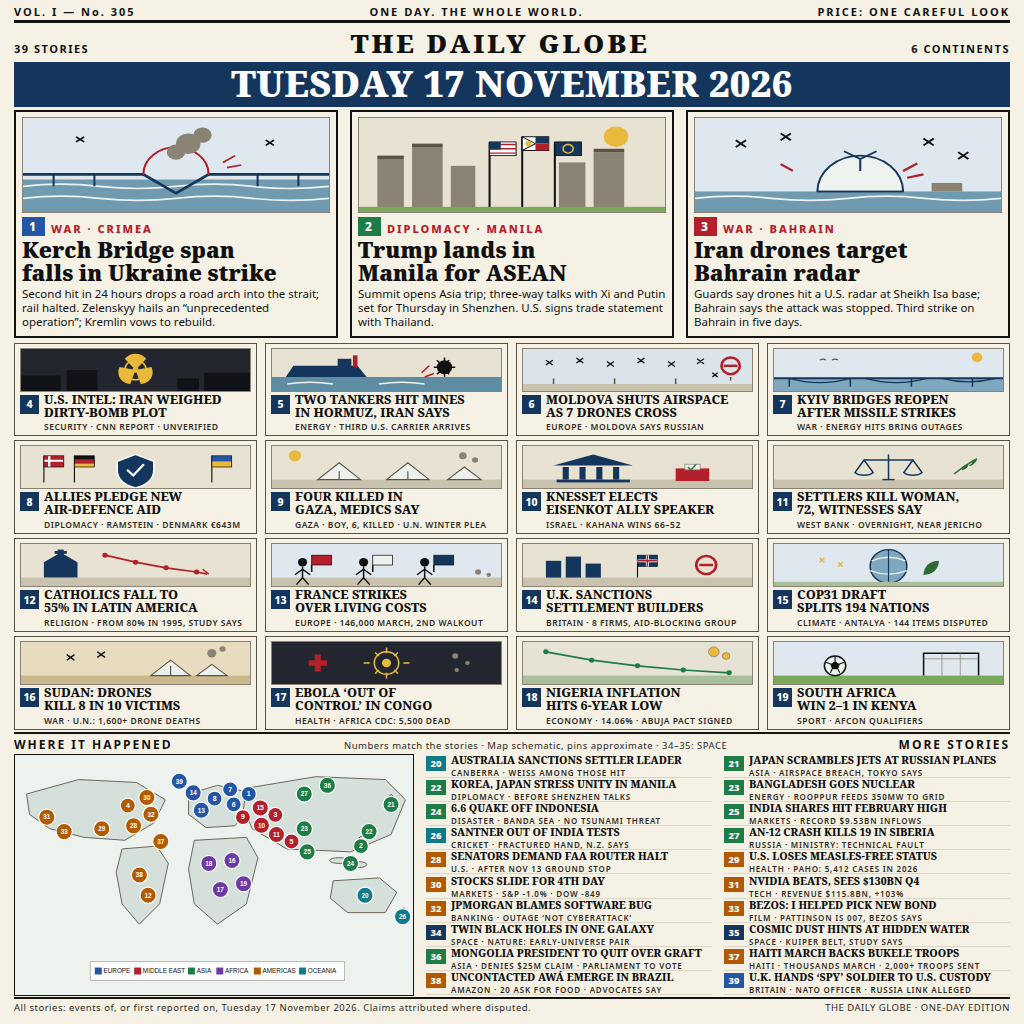
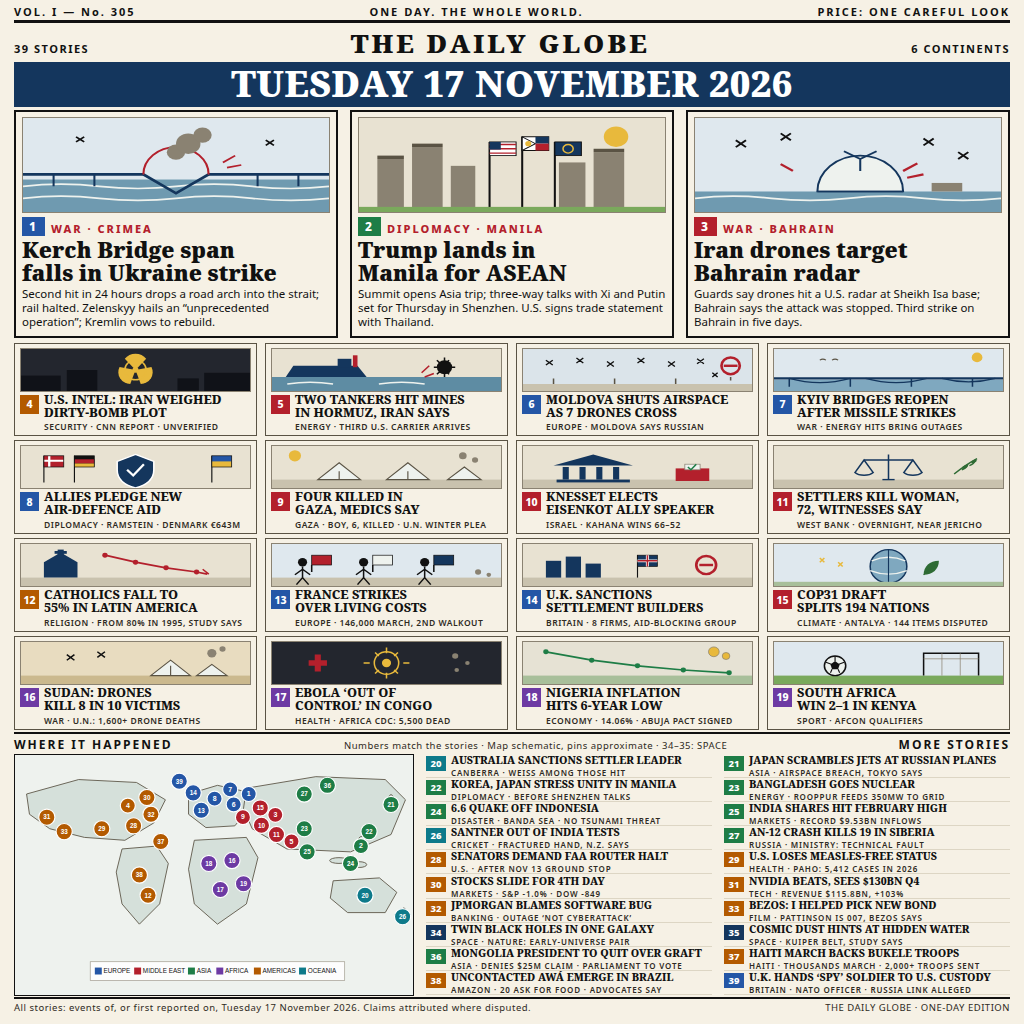
v6.1: color card chips 4-19 by story region, matching map pins

diff --git a/render.html b/render.html
@@ -35,6 +35,8 @@
   .row{display:flex;gap:5px;align-items:flex-start}
   .n2{flex:0 0 19px;height:19px;background:#14365d;color:#fff;font-size:10.5px;font-weight:800;
     display:flex;align-items:center;justify-content:center;margin-top:1px}
+  .n2.eu{background:#2456a6}.n2.me{background:#b3202c}.n2.as{background:#1e7d46}
+  .n2.af{background:#6d3aa3}.n2.am{background:#b35a00}.n2.oc{background:#0e7a8a}
   .h{font-family:"Noto Serif","DejaVu Serif",Georgia,serif;font-size:12.5px;font-weight:800;
     line-height:1.03;text-wrap:balance}
   .l{font-size:8.5px;font-weight:600;letter-spacing:.5px;color:#2e2a23;margin-top:2px}
@@ -71,22 +73,22 @@
   </div>
 
   <div class="cards">
-    <div class="card"><svg class="cardart" viewBox="0 0 300 60" preserveAspectRatio="none"><rect width="300" height="60" fill="#23262e"/><g fill="#101218"><rect y="38" width="52" height="22"/><rect x="60" y="30" width="40" height="30"/><rect x="240" y="34" width="60" height="26"/><rect x="205" y="42" width="28" height="18"/></g><g fill="#e8b93c"><circle cx="150" cy="30" r="4"/><path d="M150 30L136 14a17 17 0 0 1 28 0z"/><path d="M150 30L136 14a17 17 0 0 1 28 0z" transform="rotate(120 150 30)"/><path d="M150 30L136 14a17 17 0 0 1 28 0z" transform="rotate(240 150 30)"/></g><circle cx="150" cy="30" r="14" fill="none" stroke="#e8b93c" stroke-width="2"/></svg><div class="row"><span class="n2">4</span><div><div class="h">U.S. INTEL: IRAN WEIGHED DIRTY-BOMB PLOT</div><div class="l">SECURITY &middot; CNN REPORT &middot; UNVERIFIED</div></div></div></div>
-    <div class="card"><svg class="cardart" viewBox="0 0 300 60" preserveAspectRatio="none"><rect width="300" height="60" fill="#e8e2d2"/><rect y="40" width="300" height="20" fill="#5e8ca3"/><path d="M18 40l10-16h84l12 16z" fill="#14365d"/><rect x="86" y="14" width="18" height="12" fill="#14365d"/><rect x="106" y="9" width="6" height="17" fill="#b3202c"/><circle cx="226" cy="26" r="10" fill="#111"/><g stroke="#111" stroke-width="2"><path d="M226 12v6M226 34v6M212 26h6M234 26h6M216 16l4 4M232 16l-4 4M216 36l4-4M232 36l-4-4"/></g><path d="M196 34l10-10M200 40l12-5" stroke="#b3202c" stroke-width="2"/><path d="M20 50q30-5 60 0M140 50q30-5 60 0" stroke="#eef2ee" stroke-width="2" fill="none"/></svg><div class="row"><span class="n2">5</span><div><div class="h">TWO TANKERS HIT MINES IN HORMUZ, IRAN SAYS</div><div class="l">ENERGY &middot; THIRD U.S. CARRIER ARRIVES</div></div></div></div>
-    <div class="card"><svg class="cardart" viewBox="0 0 300 60" preserveAspectRatio="none"><rect width="300" height="60" fill="#dbe4ea"/><rect y="50" width="300" height="10" fill="#c9c2ae"/><g stroke="#111" stroke-width="1.8"><path d="M30 16l9 7M39 16l-9 7M70 13l9 7M79 13l-9 7M110 18l9 7M119 18l-9 7M150 13l9 7M159 13l-9 7M190 18l9 7M199 18l-9 7M228 14l9 7M237 14l-9 7M248 34l7 6M255 34l-7 6"/></g><circle cx="272" cy="24" r="12" fill="none" stroke="#b3202c" stroke-width="3.5"/><path d="M263 24h18" stroke="#b3202c" stroke-width="3.5"/><path d="M272 40v5" stroke="#5a5344" stroke-width="2"/><path d="M40 50v-8M120 50v-8M200 50v-8" stroke="#5a5344" stroke-width="2"/></svg><div class="row"><span class="n2">6</span><div><div class="h">MOLDOVA SHUTS AIRSPACE AS 7 DRONES CROSS</div><div class="l">EUROPE &middot; MOLDOVA SAYS RUSSIAN</div></div></div></div>
-    <div class="card"><svg class="cardart" viewBox="0 0 300 60" preserveAspectRatio="none"><rect width="300" height="60" fill="#dfe8ee"/><circle cx="266" cy="12" r="7" fill="#e8b93c"/><rect y="44" width="300" height="16" fill="#7fa8bf"/><path d="M0 42h300" stroke="#14365d" stroke-width="3"/><path d="M20 42q40 12 80 0M120 42q40 12 80 0M220 42q35 10 70 0" fill="none" stroke="#14365d" stroke-width="2"/><path d="M20 42v12M100 42v12M180 42v12M260 42v12" stroke="#14365d" stroke-width="2"/><path d="M60 16q4-3 8 0M76 16q4-3 8 0" stroke="#5a5344" stroke-width="1.5" fill="none"/></svg><div class="row"><span class="n2">7</span><div><div class="h">KYIV BRIDGES REOPEN AFTER MISSILE STRIKES</div><div class="l">WAR &middot; ENERGY HITS BRING OUTAGES</div></div></div></div>
-    <div class="card"><svg class="cardart" viewBox="0 0 300 60" preserveAspectRatio="none"><rect width="300" height="60" fill="#e8e2d2"/><g stroke="#111" stroke-width="1.5"><path d="M30 52V14M70 52V14M250 52V14"/></g><g><rect x="30" y="14" width="26" height="16" fill="#b3202c"/><path d="M30 21h26M37 14v16" stroke="#fff" stroke-width="3"/><rect x="30" y="14" width="26" height="16" fill="none" stroke="#111"/></g><g><rect x="70" y="14" width="26" height="16" fill="#111"/><rect x="70" y="19" width="26" height="6" fill="#b3202c"/><rect x="70" y="25" width="26" height="5" fill="#e8b93c"/><rect x="70" y="14" width="26" height="16" fill="none" stroke="#111"/></g><g><rect x="250" y="14" width="26" height="16" fill="#2456a6"/><rect x="250" y="22" width="26" height="8" fill="#e8b93c"/><rect x="250" y="14" width="26" height="16" fill="none" stroke="#111"/></g><path d="M150 12l24 10v12c0 14-10 22-24 26-14-4-24-12-24-26V22z" fill="#14365d" stroke="#fff" stroke-width="2"/><path d="M139 34l8 8 14-16" stroke="#fff" stroke-width="3" fill="none"/></svg><div class="row"><span class="n2">8</span><div><div class="h">ALLIES PLEDGE NEW AIR-DEFENCE AID</div><div class="l">DIPLOMACY &middot; RAMSTEIN &middot; DENMARK &euro;643M</div></div></div></div>
-    <div class="card"><svg class="cardart" viewBox="0 0 300 60" preserveAspectRatio="none"><rect width="300" height="60" fill="#e8e2d2"/><circle cx="30" cy="14" r="8" fill="#e8b93c"/><rect y="48" width="300" height="12" fill="#c9c2ae"/><g fill="#eef2ee" stroke="#5a5344" stroke-width="1.5"><path d="M60 48l28-24 28 24z"/><path d="M150 48l28-24 28 24z"/><path d="M230 48l22-18 22 18z"/></g><g fill="#8a8272"><circle cx="250" cy="14" r="5"/><circle cx="266" cy="20" r="4"/></g><path d="M88 36v12M178 36v12" stroke="#5a5344" stroke-width="1.5"/></svg><div class="row"><span class="n2">9</span><div><div class="h">FOUR KILLED IN GAZA, MEDICS SAY</div><div class="l">GAZA &middot; BOY, 6, KILLED &middot; U.N. WINTER PLEA</div></div></div></div>
-    <div class="card"><svg class="cardart" viewBox="0 0 300 60" preserveAspectRatio="none"><rect width="300" height="60" fill="#e8e2d2"/><rect y="48" width="300" height="12" fill="#c9c2ae"/><g fill="#14365d"><path d="M40 28l52-16 52 16z"/><rect x="52" y="30" width="8" height="18"/><rect x="74" y="30" width="8" height="18"/><rect x="96" y="30" width="8" height="18"/><rect x="118" y="30" width="8" height="18"/><rect x="44" y="48" width="96" height="4"/></g><g><rect x="200" y="32" width="44" height="18" fill="#b3202c"/><rect x="212" y="26" width="20" height="8" fill="#eef2ee" stroke="#8a8272"/><path d="M216 30l4 4 7-8" stroke="#1e7d46" stroke-width="2" fill="none"/></g></svg><div class="row"><span class="n2">10</span><div><div class="h">KNESSET ELECTS EISENKOT ALLY SPEAKER</div><div class="l">ISRAEL &middot; KAHANA WINS 66&ndash;52</div></div></div></div>
-    <div class="card"><svg class="cardart" viewBox="0 0 300 60" preserveAspectRatio="none"><rect width="300" height="60" fill="#e8e2d2"/><rect y="48" width="300" height="12" fill="#c9c2ae"/><g stroke="#14365d" stroke-width="2" fill="none"><path d="M150 12v36M118 20h64"/><path d="M118 20l-12 18a14 8 0 0 0 24 0z"/><path d="M182 20l-12 18a14 8 0 0 0 24 0z"/><path d="M142 48h16"/></g><g stroke="#2e6b34" stroke-width="2" fill="none"><path d="M236 40q16-14 30-22"/><path d="M246 34q6-2 8-8M256 28q6-2 8-8"/></g><g fill="#2e6b34"><ellipse cx="250" cy="30" rx="4" ry="2" transform="rotate(-30 250 30)"/><ellipse cx="262" cy="22" rx="4" ry="2" transform="rotate(-30 262 22)"/></g></svg><div class="row"><span class="n2">11</span><div><div class="h">SETTLERS KILL WOMAN, 72, WITNESSES SAY</div><div class="l">WEST BANK &middot; OVERNIGHT, NEAR JERICHO</div></div></div></div>
-    <div class="card"><svg class="cardart" viewBox="0 0 300 60" preserveAspectRatio="none"><rect width="300" height="60" fill="#e8e2d2"/><rect y="48" width="300" height="12" fill="#c9c2ae"/><g fill="#14365d"><path d="M30 48V26l22-14 22 14v22z"/><rect x="48" y="8" width="8" height="12"/><path d="M44 12h16" stroke="#14365d" stroke-width="4"/></g><g stroke="#b3202c" stroke-width="2.5" fill="none"><path d="M110 16l40 10 40 8 40 6"/></g><g fill="#b3202c"><circle cx="110" cy="16" r="3.5"/><circle cx="150" cy="26" r="3.5"/><circle cx="190" cy="34" r="3.5"/><circle cx="230" cy="40" r="3.5"/></g><path d="M230 40l14 3" stroke="#b3202c" stroke-width="2.5"/><path d="M238 36l8 7" stroke="#b3202c" stroke-width="2"/></svg><div class="row"><span class="n2">12</span><div><div class="h">CATHOLICS FALL TO 55% IN LATIN AMERICA</div><div class="l">RELIGION &middot; FROM 80% IN 1995, STUDY SAYS</div></div></div></div>
-    <div class="card"><svg class="cardart" viewBox="0 0 300 60" preserveAspectRatio="none"><rect width="300" height="60" fill="#dfe8ee"/><rect y="48" width="300" height="12" fill="#c9c2ae"/><g><circle cx="40" cy="26" r="6" fill="#111"/><path d="M40 32v16M40 36l-10 8M40 36l10 8M40 48l-8 10M40 48l8 10" stroke="#111" stroke-width="2" fill="none"/><rect x="52" y="16" width="26" height="14" fill="#b3202c" stroke="#111"/><path d="M52 30v10" stroke="#111" stroke-width="2"/></g><g><circle cx="120" cy="26" r="6" fill="#111"/><path d="M120 32v16M120 36l-10 8M120 36l10 8M120 48l-8 10M120 48l8 10" stroke="#111" stroke-width="2" fill="none"/><rect x="132" y="16" width="26" height="14" fill="#eef2ee" stroke="#111"/><path d="M132 30v10" stroke="#111" stroke-width="2"/></g><g><circle cx="200" cy="26" r="6" fill="#111"/><path d="M200 32v16M200 36l-10 8M200 36l10 8M200 48l-8 10M200 48l8 10" stroke="#111" stroke-width="2" fill="none"/><rect x="212" y="16" width="26" height="14" fill="#14365d" stroke="#111"/><path d="M212 30v10" stroke="#111" stroke-width="2"/></g><g fill="#8a8272"><circle cx="270" cy="40" r="4"/><circle cx="284" cy="44" r="3"/></g></svg><div class="row"><span class="n2">13</span><div><div class="h">FRANCE STRIKES OVER LIVING COSTS</div><div class="l">EUROPE &middot; 146,000 MARCH, 2ND WALKOUT</div></div></div></div>
-    <div class="card"><svg class="cardart" viewBox="0 0 300 60" preserveAspectRatio="none"><rect width="300" height="60" fill="#e8e2d2"/><rect y="48" width="300" height="12" fill="#c9c2ae"/><g fill="#14365d"><rect x="30" y="24" width="20" height="24"/><rect x="56" y="18" width="20" height="30"/><rect x="82" y="28" width="20" height="20"/></g><g stroke="#111" stroke-width="1.5"><path d="M150 48V16"/></g><g><rect x="150" y="16" width="26" height="16" fill="#14365d" stroke="#111"/><path d="M150 24h26M163 16v16" stroke="#fff" stroke-width="4"/><path d="M150 24h26M163 16v16" stroke="#b3202c" stroke-width="2"/></g><circle cx="240" cy="30" r="13" fill="none" stroke="#b3202c" stroke-width="3.5"/><path d="M231 30h18" stroke="#b3202c" stroke-width="3.5"/></svg><div class="row"><span class="n2">14</span><div><div class="h">U.K. SANCTIONS SETTLEMENT BUILDERS</div><div class="l">BRITAIN &middot; 8 FIRMS, AID-BLOCKING GROUP</div></div></div></div>
-    <div class="card"><svg class="cardart" viewBox="0 0 300 60" preserveAspectRatio="none"><rect width="300" height="60" fill="#dfe8ee"/><circle cx="150" cy="32" r="24" fill="#7fa8bf" stroke="#14365d" stroke-width="2"/><path d="M128 24q22-10 44 0M126 38q24 10 48 0" stroke="#eef2ee" stroke-width="2" fill="none"/><path d="M150 8v48" stroke="#14365d" stroke-width="1.5"/><g fill="#2e6b34"><path d="M196 44c0-12 8-20 20-20 0 12-8 20-20 20z"/></g><path d="M196 44c6-6 12-12 18-16" stroke="#2e6b34" stroke-width="1.5" fill="none"/><g stroke="#e8b93c" stroke-width="2"><path d="M60 20l6 6M66 20l-6 6M84 26l6 6M90 26l-6 6"/></g><rect y="54" width="300" height="6" fill="#a8bf9a"/></svg><div class="row"><span class="n2">15</span><div><div class="h">COP31 DRAFT SPLITS 194 NATIONS</div><div class="l">CLIMATE &middot; ANTALYA &middot; 144 ITEMS DISPUTED</div></div></div></div>
-    <div class="card"><svg class="cardart" viewBox="0 0 300 60" preserveAspectRatio="none"><rect width="300" height="60" fill="#e8dcc0"/><rect y="48" width="300" height="12" fill="#cbb98e"/><g stroke="#111" stroke-width="2"><path d="M60 18l10 8M70 18l-10 8M100 14l10 8M110 14l-10 8"/></g><g fill="#eef2ee" stroke="#5a5344" stroke-width="1.5"><path d="M170 48l26-22 26 22z"/><path d="M230 48l20-16 20 16z"/></g><g fill="#8a8272"><circle cx="250" cy="16" r="6"/><circle cx="264" cy="10" r="4"/></g><path d="M196 34v14" stroke="#5a5344" stroke-width="1.5"/></svg><div class="row"><span class="n2">16</span><div><div class="h">SUDAN: DRONES KILL 8 IN 10 VICTIMS</div><div class="l">WAR &middot; U.N.: 1,600+ DRONE DEATHS</div></div></div></div>
-    <div class="card"><svg class="cardart" viewBox="0 0 300 60" preserveAspectRatio="none"><rect width="300" height="60" fill="#23262e"/><g stroke="#e8b93c" stroke-width="2"><circle cx="150" cy="30" r="16" fill="none"/><path d="M150 8v8M150 44v8M128 30h-8M172 30h8M135 15l5 5M165 15l-5 5M135 45l5-5M165 45l-5-5"/></g><circle cx="150" cy="30" r="6" fill="#e8b93c"/><path d="M56 18h8v8h8v8h-8v8h-8v-8h-8v-8h8z" fill="#b3202c"/><g fill="#8a8272"><circle cx="240" cy="20" r="4"/><circle cx="256" cy="30" r="3"/><circle cx="242" cy="40" r="3"/></g></svg><div class="row"><span class="n2">17</span><div><div class="h">EBOLA &lsquo;OUT OF CONTROL&rsquo; IN CONGO</div><div class="l">HEALTH &middot; AFRICA CDC: 5,500 DEAD</div></div></div></div>
-    <div class="card"><svg class="cardart" viewBox="0 0 300 60" preserveAspectRatio="none"><rect width="300" height="60" fill="#e6e2d4"/><rect y="48" width="300" height="12" fill="#a8bf9a"/><g stroke="#1e7d46" stroke-width="2.5" fill="none"><path d="M30 14l60 12 60 8 60 6 60 4"/></g><g fill="#1e7d46"><circle cx="30" cy="14" r="3.5"/><circle cx="90" cy="26" r="3.5"/><circle cx="150" cy="34" r="3.5"/><circle cx="210" cy="40" r="3.5"/><circle cx="270" cy="44" r="3.5"/></g><g fill="#e8b93c" stroke="#8a8272"><circle cx="250" cy="14" r="7"/><circle cx="266" cy="20" r="5"/></g></svg><div class="row"><span class="n2">18</span><div><div class="h">NIGERIA INFLATION HITS 6-YEAR LOW</div><div class="l">ECONOMY &middot; 14.06% &middot; ABUJA PACT SIGNED</div></div></div></div>
-    <div class="card"><svg class="cardart" viewBox="0 0 300 60" preserveAspectRatio="none"><rect width="300" height="60" fill="#dfe8ee"/><rect y="48" width="300" height="12" fill="#7aa95c"/><g stroke="#111" stroke-width="2" fill="none"><path d="M196 48V16h72v32"/></g><path d="M196 24h72M220 16v32M244 16v32" stroke="#8a8272" stroke-width="1"/><circle cx="80" cy="34" r="14" fill="#eef2ee" stroke="#111" stroke-width="2"/><path d="M80 27l6 5-2 7h-8l-2-7z" fill="#111"/><path d="M80 20v7M68 29l8 3M92 29l-8 3M74 44l2-5M86 44l-2-5" stroke="#111" stroke-width="1.5"/></svg><div class="row"><span class="n2">19</span><div><div class="h">SOUTH AFRICA WIN 2&ndash;1 IN KENYA</div><div class="l">SPORT &middot; AFCON QUALIFIERS</div></div></div></div>
+    <div class="card"><svg class="cardart" viewBox="0 0 300 60" preserveAspectRatio="none"><rect width="300" height="60" fill="#23262e"/><g fill="#101218"><rect y="38" width="52" height="22"/><rect x="60" y="30" width="40" height="30"/><rect x="240" y="34" width="60" height="26"/><rect x="205" y="42" width="28" height="18"/></g><g fill="#e8b93c"><circle cx="150" cy="30" r="4"/><path d="M150 30L136 14a17 17 0 0 1 28 0z"/><path d="M150 30L136 14a17 17 0 0 1 28 0z" transform="rotate(120 150 30)"/><path d="M150 30L136 14a17 17 0 0 1 28 0z" transform="rotate(240 150 30)"/></g><circle cx="150" cy="30" r="14" fill="none" stroke="#e8b93c" stroke-width="2"/></svg><div class="row"><span class="n2 am">4</span><div><div class="h">U.S. INTEL: IRAN WEIGHED DIRTY-BOMB PLOT</div><div class="l">SECURITY &middot; CNN REPORT &middot; UNVERIFIED</div></div></div></div>
+    <div class="card"><svg class="cardart" viewBox="0 0 300 60" preserveAspectRatio="none"><rect width="300" height="60" fill="#e8e2d2"/><rect y="40" width="300" height="20" fill="#5e8ca3"/><path d="M18 40l10-16h84l12 16z" fill="#14365d"/><rect x="86" y="14" width="18" height="12" fill="#14365d"/><rect x="106" y="9" width="6" height="17" fill="#b3202c"/><circle cx="226" cy="26" r="10" fill="#111"/><g stroke="#111" stroke-width="2"><path d="M226 12v6M226 34v6M212 26h6M234 26h6M216 16l4 4M232 16l-4 4M216 36l4-4M232 36l-4-4"/></g><path d="M196 34l10-10M200 40l12-5" stroke="#b3202c" stroke-width="2"/><path d="M20 50q30-5 60 0M140 50q30-5 60 0" stroke="#eef2ee" stroke-width="2" fill="none"/></svg><div class="row"><span class="n2 me">5</span><div><div class="h">TWO TANKERS HIT MINES IN HORMUZ, IRAN SAYS</div><div class="l">ENERGY &middot; THIRD U.S. CARRIER ARRIVES</div></div></div></div>
+    <div class="card"><svg class="cardart" viewBox="0 0 300 60" preserveAspectRatio="none"><rect width="300" height="60" fill="#dbe4ea"/><rect y="50" width="300" height="10" fill="#c9c2ae"/><g stroke="#111" stroke-width="1.8"><path d="M30 16l9 7M39 16l-9 7M70 13l9 7M79 13l-9 7M110 18l9 7M119 18l-9 7M150 13l9 7M159 13l-9 7M190 18l9 7M199 18l-9 7M228 14l9 7M237 14l-9 7M248 34l7 6M255 34l-7 6"/></g><circle cx="272" cy="24" r="12" fill="none" stroke="#b3202c" stroke-width="3.5"/><path d="M263 24h18" stroke="#b3202c" stroke-width="3.5"/><path d="M272 40v5" stroke="#5a5344" stroke-width="2"/><path d="M40 50v-8M120 50v-8M200 50v-8" stroke="#5a5344" stroke-width="2"/></svg><div class="row"><span class="n2 eu">6</span><div><div class="h">MOLDOVA SHUTS AIRSPACE AS 7 DRONES CROSS</div><div class="l">EUROPE &middot; MOLDOVA SAYS RUSSIAN</div></div></div></div>
+    <div class="card"><svg class="cardart" viewBox="0 0 300 60" preserveAspectRatio="none"><rect width="300" height="60" fill="#dfe8ee"/><circle cx="266" cy="12" r="7" fill="#e8b93c"/><rect y="44" width="300" height="16" fill="#7fa8bf"/><path d="M0 42h300" stroke="#14365d" stroke-width="3"/><path d="M20 42q40 12 80 0M120 42q40 12 80 0M220 42q35 10 70 0" fill="none" stroke="#14365d" stroke-width="2"/><path d="M20 42v12M100 42v12M180 42v12M260 42v12" stroke="#14365d" stroke-width="2"/><path d="M60 16q4-3 8 0M76 16q4-3 8 0" stroke="#5a5344" stroke-width="1.5" fill="none"/></svg><div class="row"><span class="n2 eu">7</span><div><div class="h">KYIV BRIDGES REOPEN AFTER MISSILE STRIKES</div><div class="l">WAR &middot; ENERGY HITS BRING OUTAGES</div></div></div></div>
+    <div class="card"><svg class="cardart" viewBox="0 0 300 60" preserveAspectRatio="none"><rect width="300" height="60" fill="#e8e2d2"/><g stroke="#111" stroke-width="1.5"><path d="M30 52V14M70 52V14M250 52V14"/></g><g><rect x="30" y="14" width="26" height="16" fill="#b3202c"/><path d="M30 21h26M37 14v16" stroke="#fff" stroke-width="3"/><rect x="30" y="14" width="26" height="16" fill="none" stroke="#111"/></g><g><rect x="70" y="14" width="26" height="16" fill="#111"/><rect x="70" y="19" width="26" height="6" fill="#b3202c"/><rect x="70" y="25" width="26" height="5" fill="#e8b93c"/><rect x="70" y="14" width="26" height="16" fill="none" stroke="#111"/></g><g><rect x="250" y="14" width="26" height="16" fill="#2456a6"/><rect x="250" y="22" width="26" height="8" fill="#e8b93c"/><rect x="250" y="14" width="26" height="16" fill="none" stroke="#111"/></g><path d="M150 12l24 10v12c0 14-10 22-24 26-14-4-24-12-24-26V22z" fill="#14365d" stroke="#fff" stroke-width="2"/><path d="M139 34l8 8 14-16" stroke="#fff" stroke-width="3" fill="none"/></svg><div class="row"><span class="n2 eu">8</span><div><div class="h">ALLIES PLEDGE NEW AIR-DEFENCE AID</div><div class="l">DIPLOMACY &middot; RAMSTEIN &middot; DENMARK &euro;643M</div></div></div></div>
+    <div class="card"><svg class="cardart" viewBox="0 0 300 60" preserveAspectRatio="none"><rect width="300" height="60" fill="#e8e2d2"/><circle cx="30" cy="14" r="8" fill="#e8b93c"/><rect y="48" width="300" height="12" fill="#c9c2ae"/><g fill="#eef2ee" stroke="#5a5344" stroke-width="1.5"><path d="M60 48l28-24 28 24z"/><path d="M150 48l28-24 28 24z"/><path d="M230 48l22-18 22 18z"/></g><g fill="#8a8272"><circle cx="250" cy="14" r="5"/><circle cx="266" cy="20" r="4"/></g><path d="M88 36v12M178 36v12" stroke="#5a5344" stroke-width="1.5"/></svg><div class="row"><span class="n2 me">9</span><div><div class="h">FOUR KILLED IN GAZA, MEDICS SAY</div><div class="l">GAZA &middot; BOY, 6, KILLED &middot; U.N. WINTER PLEA</div></div></div></div>
+    <div class="card"><svg class="cardart" viewBox="0 0 300 60" preserveAspectRatio="none"><rect width="300" height="60" fill="#e8e2d2"/><rect y="48" width="300" height="12" fill="#c9c2ae"/><g fill="#14365d"><path d="M40 28l52-16 52 16z"/><rect x="52" y="30" width="8" height="18"/><rect x="74" y="30" width="8" height="18"/><rect x="96" y="30" width="8" height="18"/><rect x="118" y="30" width="8" height="18"/><rect x="44" y="48" width="96" height="4"/></g><g><rect x="200" y="32" width="44" height="18" fill="#b3202c"/><rect x="212" y="26" width="20" height="8" fill="#eef2ee" stroke="#8a8272"/><path d="M216 30l4 4 7-8" stroke="#1e7d46" stroke-width="2" fill="none"/></g></svg><div class="row"><span class="n2 me">10</span><div><div class="h">KNESSET ELECTS EISENKOT ALLY SPEAKER</div><div class="l">ISRAEL &middot; KAHANA WINS 66&ndash;52</div></div></div></div>
+    <div class="card"><svg class="cardart" viewBox="0 0 300 60" preserveAspectRatio="none"><rect width="300" height="60" fill="#e8e2d2"/><rect y="48" width="300" height="12" fill="#c9c2ae"/><g stroke="#14365d" stroke-width="2" fill="none"><path d="M150 12v36M118 20h64"/><path d="M118 20l-12 18a14 8 0 0 0 24 0z"/><path d="M182 20l-12 18a14 8 0 0 0 24 0z"/><path d="M142 48h16"/></g><g stroke="#2e6b34" stroke-width="2" fill="none"><path d="M236 40q16-14 30-22"/><path d="M246 34q6-2 8-8M256 28q6-2 8-8"/></g><g fill="#2e6b34"><ellipse cx="250" cy="30" rx="4" ry="2" transform="rotate(-30 250 30)"/><ellipse cx="262" cy="22" rx="4" ry="2" transform="rotate(-30 262 22)"/></g></svg><div class="row"><span class="n2 me">11</span><div><div class="h">SETTLERS KILL WOMAN, 72, WITNESSES SAY</div><div class="l">WEST BANK &middot; OVERNIGHT, NEAR JERICHO</div></div></div></div>
+    <div class="card"><svg class="cardart" viewBox="0 0 300 60" preserveAspectRatio="none"><rect width="300" height="60" fill="#e8e2d2"/><rect y="48" width="300" height="12" fill="#c9c2ae"/><g fill="#14365d"><path d="M30 48V26l22-14 22 14v22z"/><rect x="48" y="8" width="8" height="12"/><path d="M44 12h16" stroke="#14365d" stroke-width="4"/></g><g stroke="#b3202c" stroke-width="2.5" fill="none"><path d="M110 16l40 10 40 8 40 6"/></g><g fill="#b3202c"><circle cx="110" cy="16" r="3.5"/><circle cx="150" cy="26" r="3.5"/><circle cx="190" cy="34" r="3.5"/><circle cx="230" cy="40" r="3.5"/></g><path d="M230 40l14 3" stroke="#b3202c" stroke-width="2.5"/><path d="M238 36l8 7" stroke="#b3202c" stroke-width="2"/></svg><div class="row"><span class="n2 am">12</span><div><div class="h">CATHOLICS FALL TO 55% IN LATIN AMERICA</div><div class="l">RELIGION &middot; FROM 80% IN 1995, STUDY SAYS</div></div></div></div>
+    <div class="card"><svg class="cardart" viewBox="0 0 300 60" preserveAspectRatio="none"><rect width="300" height="60" fill="#dfe8ee"/><rect y="48" width="300" height="12" fill="#c9c2ae"/><g><circle cx="40" cy="26" r="6" fill="#111"/><path d="M40 32v16M40 36l-10 8M40 36l10 8M40 48l-8 10M40 48l8 10" stroke="#111" stroke-width="2" fill="none"/><rect x="52" y="16" width="26" height="14" fill="#b3202c" stroke="#111"/><path d="M52 30v10" stroke="#111" stroke-width="2"/></g><g><circle cx="120" cy="26" r="6" fill="#111"/><path d="M120 32v16M120 36l-10 8M120 36l10 8M120 48l-8 10M120 48l8 10" stroke="#111" stroke-width="2" fill="none"/><rect x="132" y="16" width="26" height="14" fill="#eef2ee" stroke="#111"/><path d="M132 30v10" stroke="#111" stroke-width="2"/></g><g><circle cx="200" cy="26" r="6" fill="#111"/><path d="M200 32v16M200 36l-10 8M200 36l10 8M200 48l-8 10M200 48l8 10" stroke="#111" stroke-width="2" fill="none"/><rect x="212" y="16" width="26" height="14" fill="#14365d" stroke="#111"/><path d="M212 30v10" stroke="#111" stroke-width="2"/></g><g fill="#8a8272"><circle cx="270" cy="40" r="4"/><circle cx="284" cy="44" r="3"/></g></svg><div class="row"><span class="n2 eu">13</span><div><div class="h">FRANCE STRIKES OVER LIVING COSTS</div><div class="l">EUROPE &middot; 146,000 MARCH, 2ND WALKOUT</div></div></div></div>
+    <div class="card"><svg class="cardart" viewBox="0 0 300 60" preserveAspectRatio="none"><rect width="300" height="60" fill="#e8e2d2"/><rect y="48" width="300" height="12" fill="#c9c2ae"/><g fill="#14365d"><rect x="30" y="24" width="20" height="24"/><rect x="56" y="18" width="20" height="30"/><rect x="82" y="28" width="20" height="20"/></g><g stroke="#111" stroke-width="1.5"><path d="M150 48V16"/></g><g><rect x="150" y="16" width="26" height="16" fill="#14365d" stroke="#111"/><path d="M150 24h26M163 16v16" stroke="#fff" stroke-width="4"/><path d="M150 24h26M163 16v16" stroke="#b3202c" stroke-width="2"/></g><circle cx="240" cy="30" r="13" fill="none" stroke="#b3202c" stroke-width="3.5"/><path d="M231 30h18" stroke="#b3202c" stroke-width="3.5"/></svg><div class="row"><span class="n2 eu">14</span><div><div class="h">U.K. SANCTIONS SETTLEMENT BUILDERS</div><div class="l">BRITAIN &middot; 8 FIRMS, AID-BLOCKING GROUP</div></div></div></div>
+    <div class="card"><svg class="cardart" viewBox="0 0 300 60" preserveAspectRatio="none"><rect width="300" height="60" fill="#dfe8ee"/><circle cx="150" cy="32" r="24" fill="#7fa8bf" stroke="#14365d" stroke-width="2"/><path d="M128 24q22-10 44 0M126 38q24 10 48 0" stroke="#eef2ee" stroke-width="2" fill="none"/><path d="M150 8v48" stroke="#14365d" stroke-width="1.5"/><g fill="#2e6b34"><path d="M196 44c0-12 8-20 20-20 0 12-8 20-20 20z"/></g><path d="M196 44c6-6 12-12 18-16" stroke="#2e6b34" stroke-width="1.5" fill="none"/><g stroke="#e8b93c" stroke-width="2"><path d="M60 20l6 6M66 20l-6 6M84 26l6 6M90 26l-6 6"/></g><rect y="54" width="300" height="6" fill="#a8bf9a"/></svg><div class="row"><span class="n2 me">15</span><div><div class="h">COP31 DRAFT SPLITS 194 NATIONS</div><div class="l">CLIMATE &middot; ANTALYA &middot; 144 ITEMS DISPUTED</div></div></div></div>
+    <div class="card"><svg class="cardart" viewBox="0 0 300 60" preserveAspectRatio="none"><rect width="300" height="60" fill="#e8dcc0"/><rect y="48" width="300" height="12" fill="#cbb98e"/><g stroke="#111" stroke-width="2"><path d="M60 18l10 8M70 18l-10 8M100 14l10 8M110 14l-10 8"/></g><g fill="#eef2ee" stroke="#5a5344" stroke-width="1.5"><path d="M170 48l26-22 26 22z"/><path d="M230 48l20-16 20 16z"/></g><g fill="#8a8272"><circle cx="250" cy="16" r="6"/><circle cx="264" cy="10" r="4"/></g><path d="M196 34v14" stroke="#5a5344" stroke-width="1.5"/></svg><div class="row"><span class="n2 af">16</span><div><div class="h">SUDAN: DRONES KILL 8 IN 10 VICTIMS</div><div class="l">WAR &middot; U.N.: 1,600+ DRONE DEATHS</div></div></div></div>
+    <div class="card"><svg class="cardart" viewBox="0 0 300 60" preserveAspectRatio="none"><rect width="300" height="60" fill="#23262e"/><g stroke="#e8b93c" stroke-width="2"><circle cx="150" cy="30" r="16" fill="none"/><path d="M150 8v8M150 44v8M128 30h-8M172 30h8M135 15l5 5M165 15l-5 5M135 45l5-5M165 45l-5-5"/></g><circle cx="150" cy="30" r="6" fill="#e8b93c"/><path d="M56 18h8v8h8v8h-8v8h-8v-8h-8v-8h8z" fill="#b3202c"/><g fill="#8a8272"><circle cx="240" cy="20" r="4"/><circle cx="256" cy="30" r="3"/><circle cx="242" cy="40" r="3"/></g></svg><div class="row"><span class="n2 af">17</span><div><div class="h">EBOLA &lsquo;OUT OF CONTROL&rsquo; IN CONGO</div><div class="l">HEALTH &middot; AFRICA CDC: 5,500 DEAD</div></div></div></div>
+    <div class="card"><svg class="cardart" viewBox="0 0 300 60" preserveAspectRatio="none"><rect width="300" height="60" fill="#e6e2d4"/><rect y="48" width="300" height="12" fill="#a8bf9a"/><g stroke="#1e7d46" stroke-width="2.5" fill="none"><path d="M30 14l60 12 60 8 60 6 60 4"/></g><g fill="#1e7d46"><circle cx="30" cy="14" r="3.5"/><circle cx="90" cy="26" r="3.5"/><circle cx="150" cy="34" r="3.5"/><circle cx="210" cy="40" r="3.5"/><circle cx="270" cy="44" r="3.5"/></g><g fill="#e8b93c" stroke="#8a8272"><circle cx="250" cy="14" r="7"/><circle cx="266" cy="20" r="5"/></g></svg><div class="row"><span class="n2 af">18</span><div><div class="h">NIGERIA INFLATION HITS 6-YEAR LOW</div><div class="l">ECONOMY &middot; 14.06% &middot; ABUJA PACT SIGNED</div></div></div></div>
+    <div class="card"><svg class="cardart" viewBox="0 0 300 60" preserveAspectRatio="none"><rect width="300" height="60" fill="#dfe8ee"/><rect y="48" width="300" height="12" fill="#7aa95c"/><g stroke="#111" stroke-width="2" fill="none"><path d="M196 48V16h72v32"/></g><path d="M196 24h72M220 16v32M244 16v32" stroke="#8a8272" stroke-width="1"/><circle cx="80" cy="34" r="14" fill="#eef2ee" stroke="#111" stroke-width="2"/><path d="M80 27l6 5-2 7h-8l-2-7z" fill="#111"/><path d="M80 20v7M68 29l8 3M92 29l-8 3M74 44l2-5M86 44l-2-5" stroke="#111" stroke-width="1.5"/></svg><div class="row"><span class="n2 af">19</span><div><div class="h">SOUTH AFRICA WIN 2&ndash;1 IN KENYA</div><div class="l">SPORT &middot; AFCON QUALIFIERS</div></div></div></div>
   </div>
 
   <div class="bothead"><b>WHERE IT HAPPENED</b><span>Numbers match the stories &middot; Map schematic, pins approximate &middot; 34&ndash;35: SPACE</span><b>MORE STORIES</b></div>
